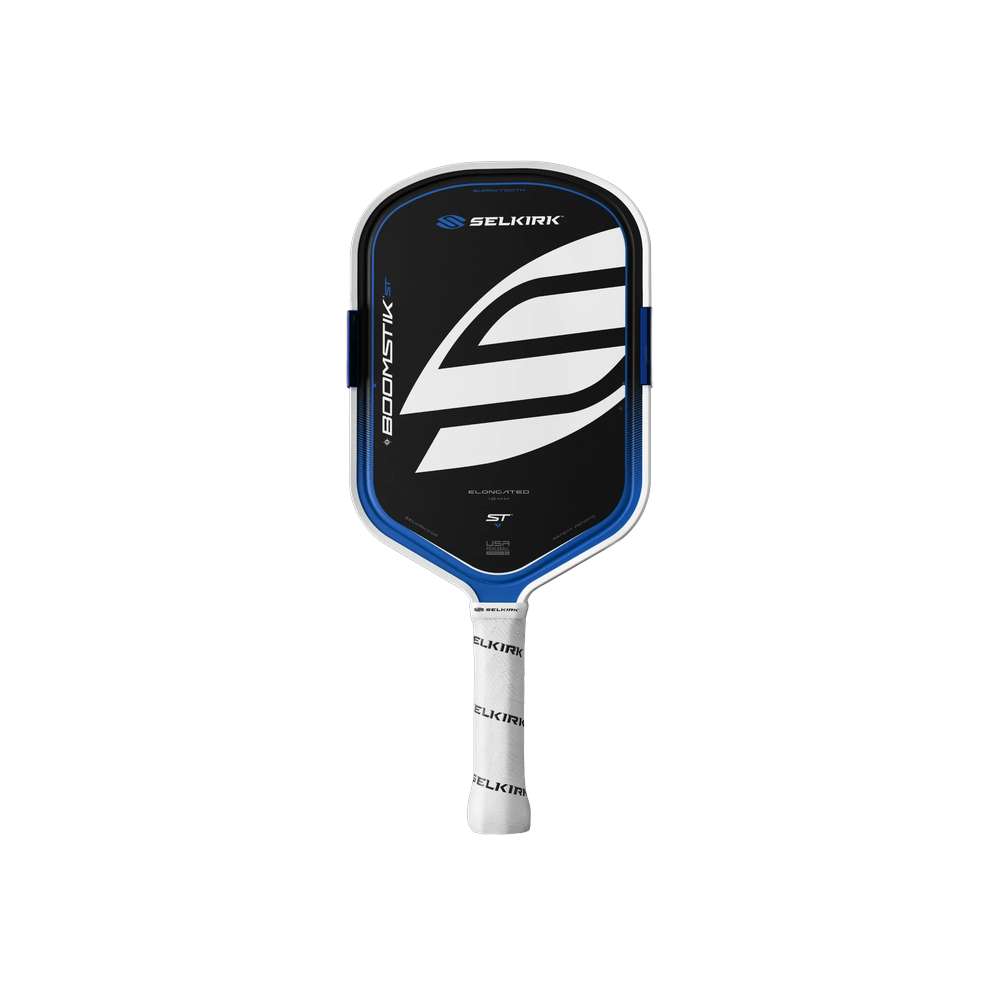
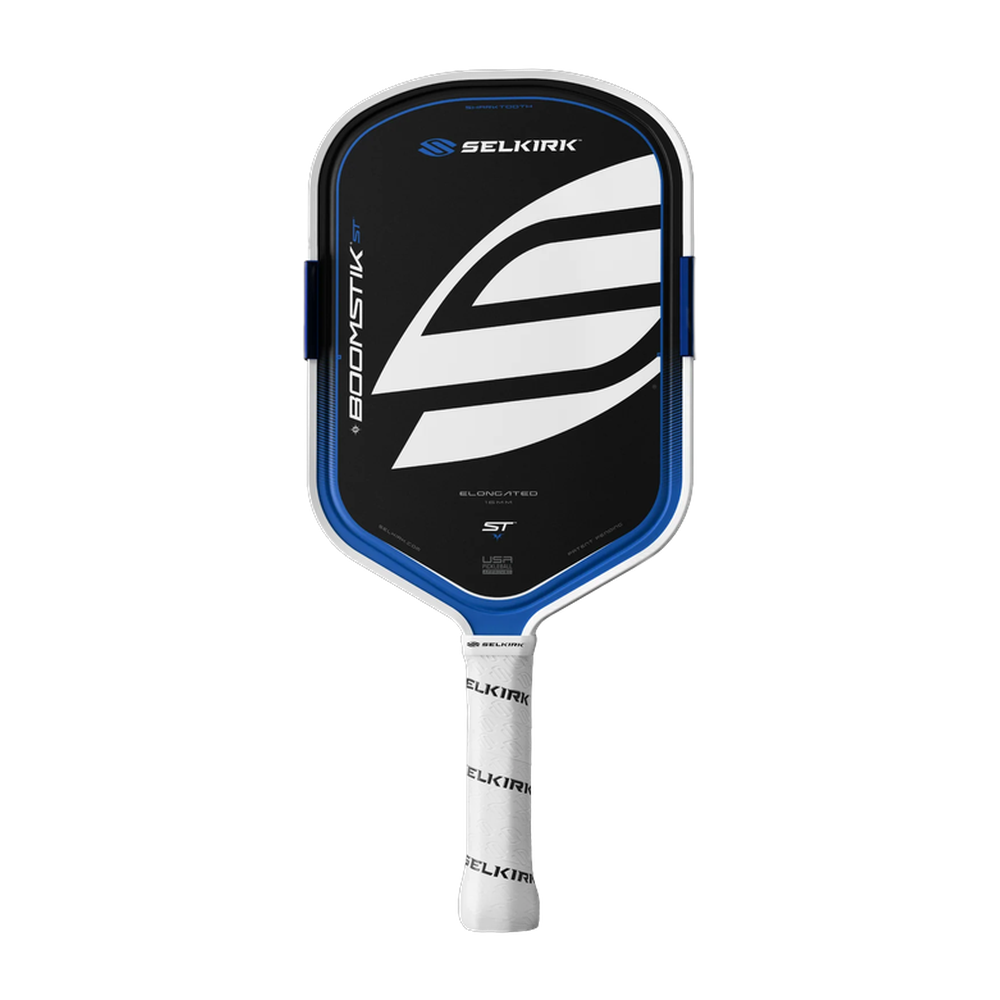
Fix PaddleCanvas trending logic, blue theme, and Elongated image size
- PaddleCanvas now uses isTrendingExcluded + takeTopBySeriesDedup to match
  TrendingSection exactly — no more non-trending paddles in the hero
- Histogram active bin and spec value numbers switch from lab-green to blue
  (#0a64bc active bar, #60a5fa number text) to match site color scheme
- Renormalize Boomstik ST Elongated image: paddle now fills 870px of height
  in the 1000x1000 canvas (was 674px), matching other paddles' apparent size

Changed region(s): [[0.279, 0.062, 0.713, 0.93]]

diff --git a/src/components/lab/PaddleCanvas.tsx b/src/components/lab/PaddleCanvas.tsx
@@ -4,6 +4,7 @@ import { useState, useEffect, useCallback, useRef } from "react";
 import Image from "next/image";
 import Link from "next/link";
 import { getTrending, paddles as allPaddles } from "@/data/paddles";
+import { isTrendingExcluded, takeTopBySeriesDedup } from "@/lib/trending";
 import type { Paddle } from "@/types";
 
 // ── Catalog distributions (computed once at module load) ──────────────────────
@@ -69,10 +70,10 @@ function MiniHistogram({
               height: `${Math.max(8, heightPct)}%`,
               borderRadius: 1.5,
               background: isActive
-                ? "var(--lab-green)"
+                ? "#0a64bc"
                 : isAdjacent
-                ? "rgba(163,230,53,0.35)"
-                : "rgba(163,230,53,0.12)",
+                ? "rgba(10,100,188,0.4)"
+                : "rgba(10,100,188,0.15)",
               transition: "height 0.3s ease",
             }}
           />
@@ -135,7 +136,7 @@ function SpecChip({
           fontSize: "clamp(14px, 1.8vw, 18px)",
           fontWeight: 600,
           lineHeight: 1,
-          color: display === "—" ? "var(--lab-text-muted)" : "var(--lab-text-mono)",
+          color: display === "—" ? "var(--lab-text-muted)" : "#60a5fa",
           letterSpacing: "-0.02em",
         }}
       >
@@ -158,9 +159,12 @@ function SpecChip({
 
 // ── Main export ───────────────────────────────────────────────────────────────
 export default function PaddleCanvas({ featuredPaddle: _ignored }: { featuredPaddle?: Paddle | null }) {
-  const list: Paddle[] = getTrending(50)
-    .filter((p) => p.image && p.swingWeight > 0)
-    .slice(0, 10);
+  const candidates = getTrending(100)
+    .filter((p) => p.image && p.swingWeight > 0 && !isTrendingExcluded(p.slug));
+  const list: Paddle[] = takeTopBySeriesDedup(
+    candidates.map((p) => ({ paddle: p })),
+    10,
+  ).map((t) => t.paddle);
 
   const [idx, setIdx]         = useState(0);
   const [opacity, setOpacity] = useState(1);
